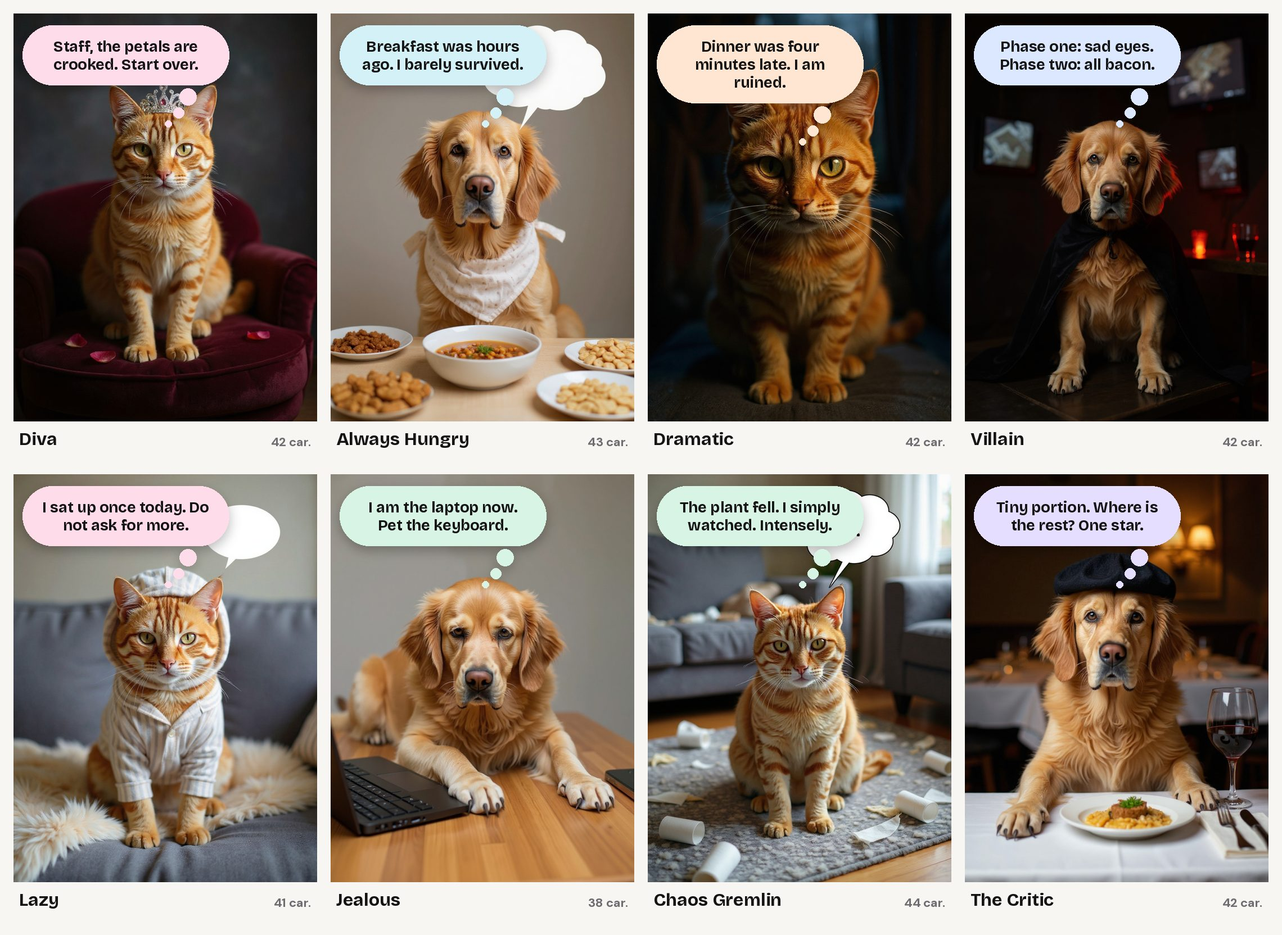
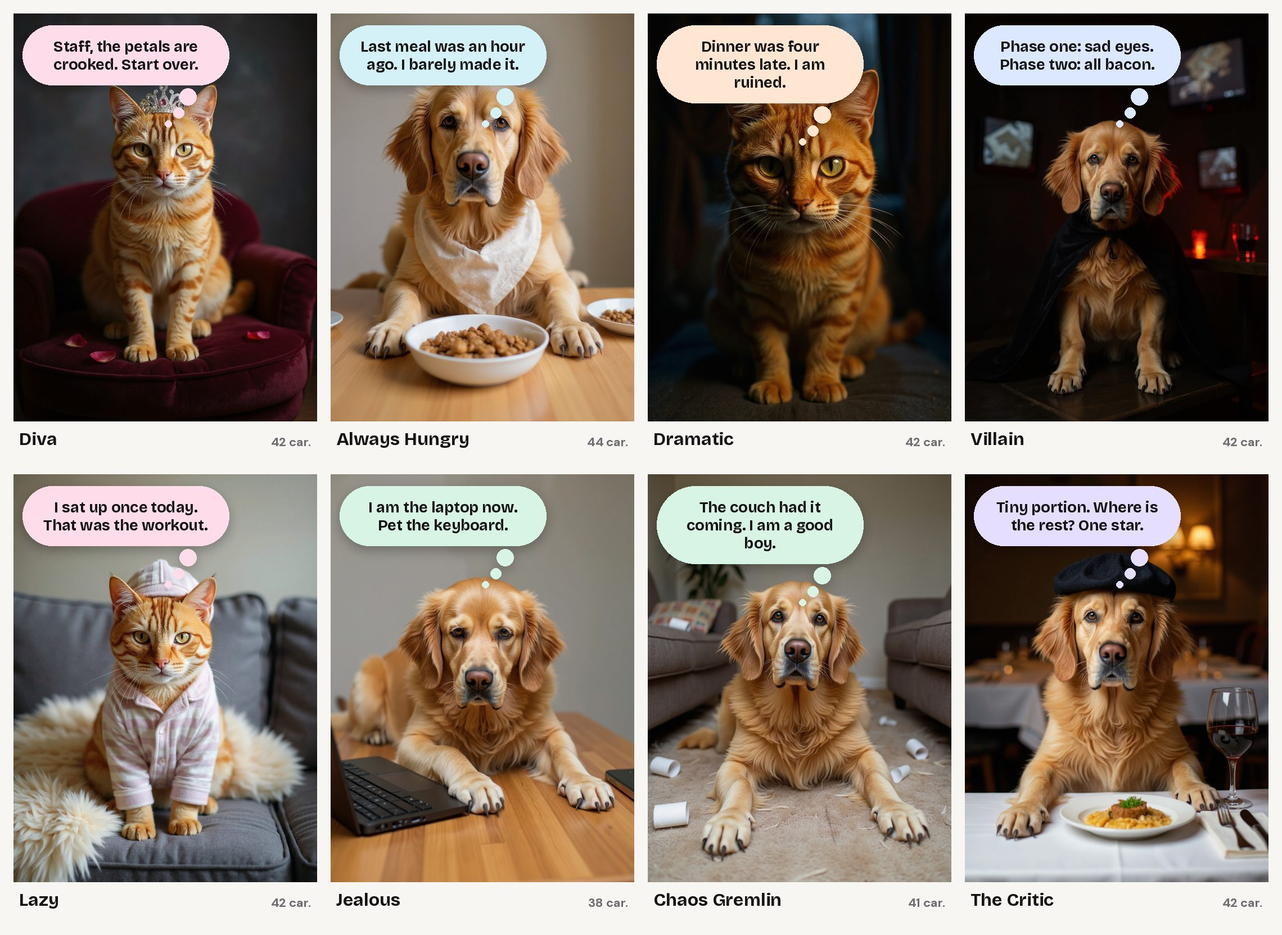
fix(supabase): a IA de imagem deixa de desenhar balões próprios no fundo
Claude-Session: https://claude.ai/code/session_01N83rQRxUsZKxynSdEqwWBY

Changed region(s): [[0.4982, 0.5, 0.7474, 0.9688], [0.0, 0.5312, 0.2491, 0.9688], [0.2491, 0.0312, 0.4982, 0.4688]]

diff --git a/supabase/functions/_shared/prompts.ts b/supabase/functions/_shared/prompts.ts
@@ -62,8 +62,8 @@ export function imageEditPrompt(style: string): string {
     `Style: ${style}`,
     'Keep the exact same animal fully recognisable: same species, breed, size, fur colours, markings, eye colour and face shape.',
     'The pet stays the main subject, centred, photorealistic, with natural lighting.',
-    'Frame the pet in the lower two thirds of the image and keep the top third as calm, uncluttered background (a caption bubble goes there).',
-    'Do not add any text, letters, numbers, captions, logos, watermarks or speech bubbles.',
+    'Frame the pet in the lower two thirds of the image and keep the top third as plain, empty background.',
+    'Never draw speech bubbles, thought bubbles, clouds of thought, text, letters, numbers, captions, logos or watermarks.',
     'Do not give the animal human facial features and never make it resemble a real person.',
   ].join(' ');
 }

diff --git a/supabase/functions/_shared/pipeline_test.ts b/supabase/functions/_shared/pipeline_test.ts
@@ -122,7 +122,7 @@ Deno.test('prompts carry the pet-logic, safety and language rules', () => {
   assert.match(imageEditPrompt('pearls'), /same animal/);
   assert.match(imageEditPrompt('pearls'), /top third/);
   assert.match(imageEditPrompt('pearls'), /never make it resemble a real person/);
-  assert.match(imageEditPrompt('pearls'), /Do not add any text/);
+  assert.match(imageEditPrompt('pearls'), /Never draw speech bubbles/);
 });
 
 Deno.test('failure reasons never leak provider messages or keys', () => {
